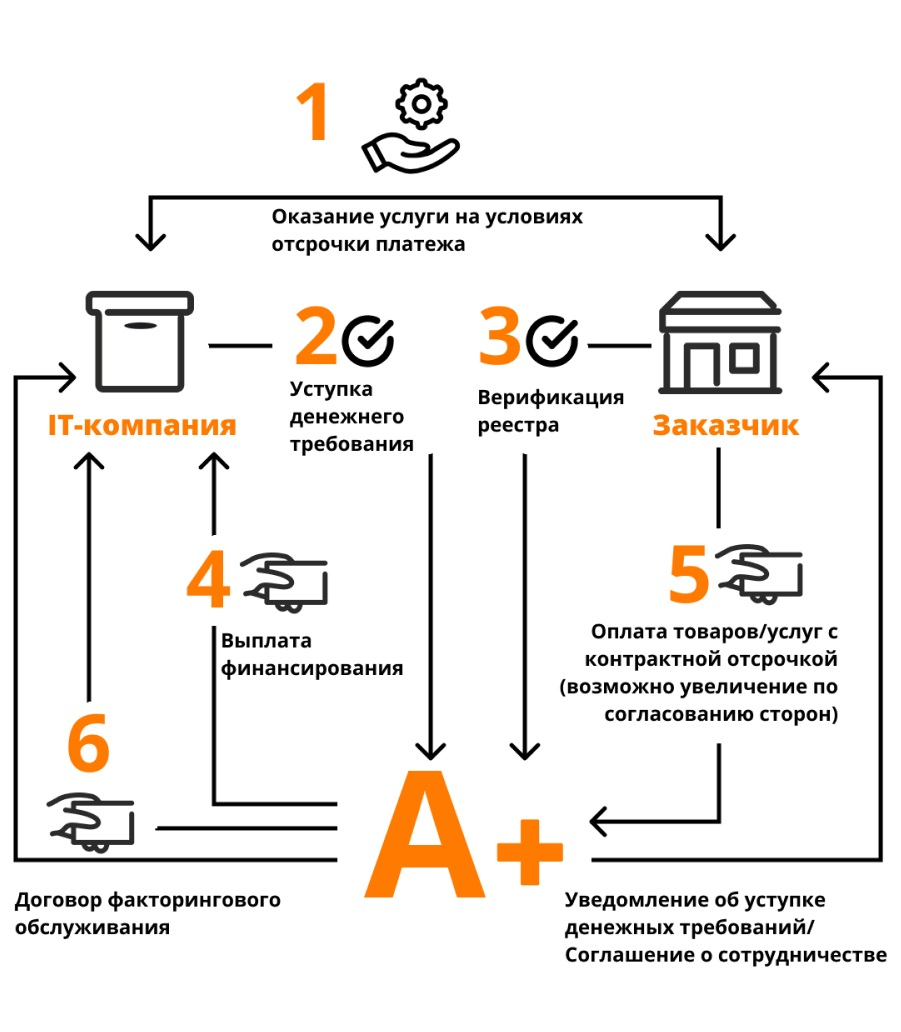
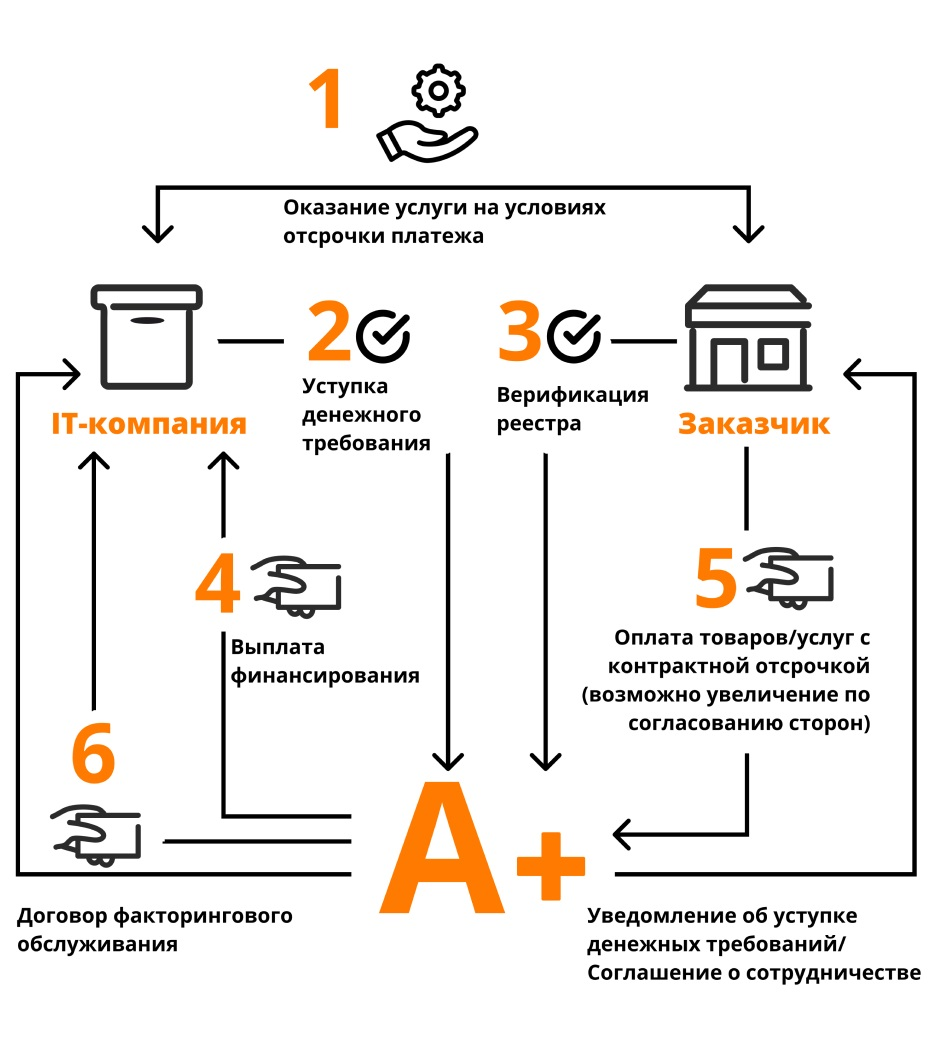
fixed the pictures and uploaded new schemes

Changed region(s): [[0.0, 0.062, 0.9012, 0.9302], [0.6215, 0.3411, 0.9945, 0.9612], [0.404, 0.4341, 0.6215, 0.8992]]

diff --git a/src/components/Cases/Cases.jsx b/src/components/Cases/Cases.jsx
@@ -10,29 +10,29 @@ import { Link } from "react-router-dom";
 function Cases() {
   return (
     <div className="cases">
-        <h1 className="cases__header">Кейсы</h1>
-        <div className="cases__content">
-          <div className="cases__leftSide">
-            <Link to="/case-seafooddelivery">
-                <div className="cases__imgWrapper">
-                  <img className="cases__img" alt="Кейс" src={Case1} srcSet={`${Case1Retina} 2x`}/>
-                </div>
-            </Link>
-          </div>
-          <div className="cases__rightSide">
-            <Link to="/case-fruitdelivery">
-              <div className="cases__imgWrapper cases__imgWrapper_smaller">
-                <img className="cases__img cases__img_smaller" alt="Кейс" src={Case2} srcSet={`${Case2Retina} 2x`}/>
-              </div>
-            </Link>
-            <Link to="/case-softwaredevelopment">
-              <div className="cases__imgWrapper cases__imgWrapper_smaller">
-                <img className="cases__img" alt="Кейс" src={Case3} srcSet={`${Case3Retina} 2x`}/>
-              </div>
-            </Link>
-          </div>
-          
+      <h1 className="cases__header">Кейсы</h1>
+      <div className="cases__content">
+        <div className="cases__leftSide">
+          <Link to="/case-seafooddelivery">
+            <div className="cases__imgWrapper">
+              <img className="cases__img" alt="Кейс" src={Case1} srcSet={`${Case1Retina} 2x`} />
+            </div>
+          </Link>
         </div>
+        <div className="cases__rightSide">
+          <Link to="/case-fruitdelivery">
+            <div className="cases__imgWrapper cases__imgWrapper_smaller">
+              <img className="cases__img cases__img_smaller" alt="Кейс" src={Case2} srcSet={`${Case2Retina} 2x`} />
+            </div>
+          </Link>
+          <Link to="/case-softwaredevelopment">
+            <div className="cases__imgWrapper cases__imgWrapper_smaller">
+              <img className="cases__img cases__img_smaller" alt="Кейс" src={Case3} srcSet={`${Case3Retina} 2x`} />
+            </div>
+          </Link>
+        </div>
+
+      </div>
     </div>
   );
 }

diff --git a/src/pages/OneCasePage/OneCasePage.scss b/src/pages/OneCasePage/OneCasePage.scss
@@ -13,11 +13,12 @@
     .main {
         display: grid;
         grid-template-columns: 1fr 1fr;
-        column-gap: 58px;
+        column-gap: 46px;
         align-items: center;
         margin-bottom: 75px;
         .main__schemeImg {
             width: 100%;
+            object-fit: contain;
         }
         .main__steps {
             > div {
@@ -78,6 +79,10 @@
     }
 }
 
+#itoutsourcing {
+    border-bottom: 0px;
+}
+
 @media (min-width: $mobile) and (max-width: $tablet) {
     .oneCasePage {
         margin-top: 50px;
@@ -108,18 +113,18 @@
                 }
             }
             #seafooddelivery {
-                margin-top: 0px;
-                margin-bottom: 40px;
+                margin-top: 25px;
+                margin-bottom: 10px;
                 img {
-                    max-height: 557px;
+                    max-height: 562px;
                     max-width: 100%;
                 }
             }
             #softwaredevelopment {
-                margin-top: 20px;
-                margin-bottom: 20px;
+                margin-top: 9px;
+                margin-bottom: 0px;
                 img {
-                    max-height: 425px;
+                    max-height: 464px;
                     max-width: 100%;
                 }
             }
@@ -238,18 +243,18 @@
                 }
             }
             #seafooddelivery {
-                margin-top: 6px;
-                margin-bottom: 6px;
+                margin-top: 5px;
+                margin-bottom: 2px;
                 img {
-                    max-height: 305px;
+                    max-height: 310px;
                     max-width: 100%;
                 }
             }
             #softwaredevelopment {
-                margin-top: 8px;
-                margin-bottom: 0px;
+                margin-top: 1px;
+                margin-bottom: 5px;
                 img {
-                    max-height: 211px;
+                    max-height: 213px;
                     max-width: 100%;
                 }
             }

diff --git a/src/components/CaseBox/CaseBox.scss b/src/components/CaseBox/CaseBox.scss
@@ -1,17 +1,21 @@
 @import "../../styles/_vars.scss";
 
 .caseBox {
-    display: flex;
-    flex-direction: row;
+    box-sizing: border-box;
+    display: grid;
+    grid-template-columns: 260px 1fr;
+    grid-template-rows: auto;
     border-top: 1px solid #000000;
     padding-top: 10px;
     padding-bottom: 10px;
     .caseBox__scheme {
         align-self: center;
+        display: flex;
+        justify-content: center;
         height: 190px;
         .caseBox__schemeImg {
-            height: 100%;
-            width: auto;
+            width: 100%;
+            object-fit: contain;
         }
     }
     .caseBox__text {
@@ -51,6 +55,7 @@
         }
     }
 }
+
 #itoutsourcing {
     border-bottom: 1px solid #000000;
 }
@@ -91,12 +96,11 @@
 
 @media (max-width: $tablet) {
     .caseBox {
+        grid-template-columns: 140px 1fr;
         padding-top: 10px;
         padding-bottom: 10px;
         .caseBox__scheme {
-            height: 103px;
-            margin-top: 10px;
-            margin-bottom: 10px;
+            height: 123px;
         }
         .caseBox__text {
             margin-left: 20px;
@@ -126,12 +130,11 @@
 
 @media (max-width: $mobile) {
     .caseBox {
+        grid-template-columns: 89px 1fr;
         padding-top: 5px;
         padding-bottom: 5px;
         .caseBox__scheme {
             height: 82px;
-            margin-top: 12px;
-            margin-bottom: 12px;
         }
         .caseBox__text {
             margin-left: 15px;

diff --git a/src/pages/OneCasePage/OneCasePage.jsx b/src/pages/OneCasePage/OneCasePage.jsx
@@ -27,10 +27,10 @@ import softwaredevelopmentMobileRetina from '../../assets/imgs/software-developm
 
 import itoutsourcing from '../../assets/imgs/it-outsourcing.jpg';
 import itoutsourcingRetina from '../../assets/imgs/it-outsourcing_2x.jpg';
-import itoutsourcingTablet from '../../assets/imgs/it-outsourcing-tablet.jpg';
-import itoutsourcingTabletRetina from '../../assets/imgs/it-outsourcing-tablet_2x.jpg';
-import itoutsourcingMobile from '../../assets/imgs/it-outsourcing-mobile.jpg';
-import itoutsourcingMobileRetina from '../../assets/imgs/it-outsourcing-mobile_2x.jpg';
+import itoutsourcingTablet from '../../assets/imgs/it-outsourcing.jpg';
+import itoutsourcingTabletRetina from '../../assets/imgs/it-outsourcing_2x.jpg';
+import itoutsourcingMobile from '../../assets/imgs/it-outsourcing.jpg';
+import itoutsourcingMobileRetina from '../../assets/imgs/it-outsourcing_2x.jpg';
 
 function OneCasePage(props) {
   const currentCase = cases.find((item) => (item.id === props.case));

diff --git a/src/components/Cases/Cases.scss b/src/components/Cases/Cases.scss
@@ -49,7 +49,7 @@
     .cases__rightSide {
         max-width: 45%;
     }
-    
+
     .cases__img {
         width: 100%;
         max-width: 100%;
